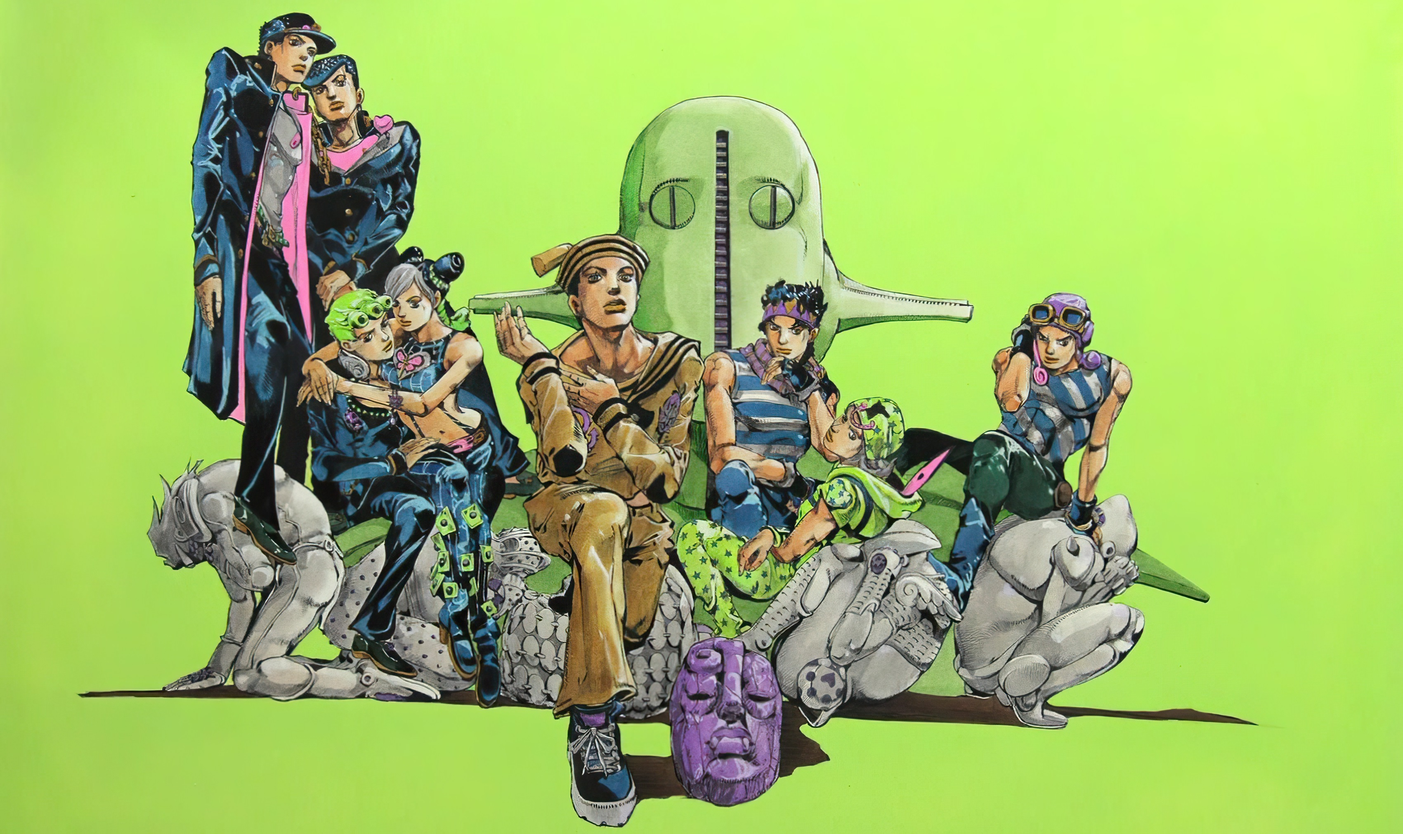
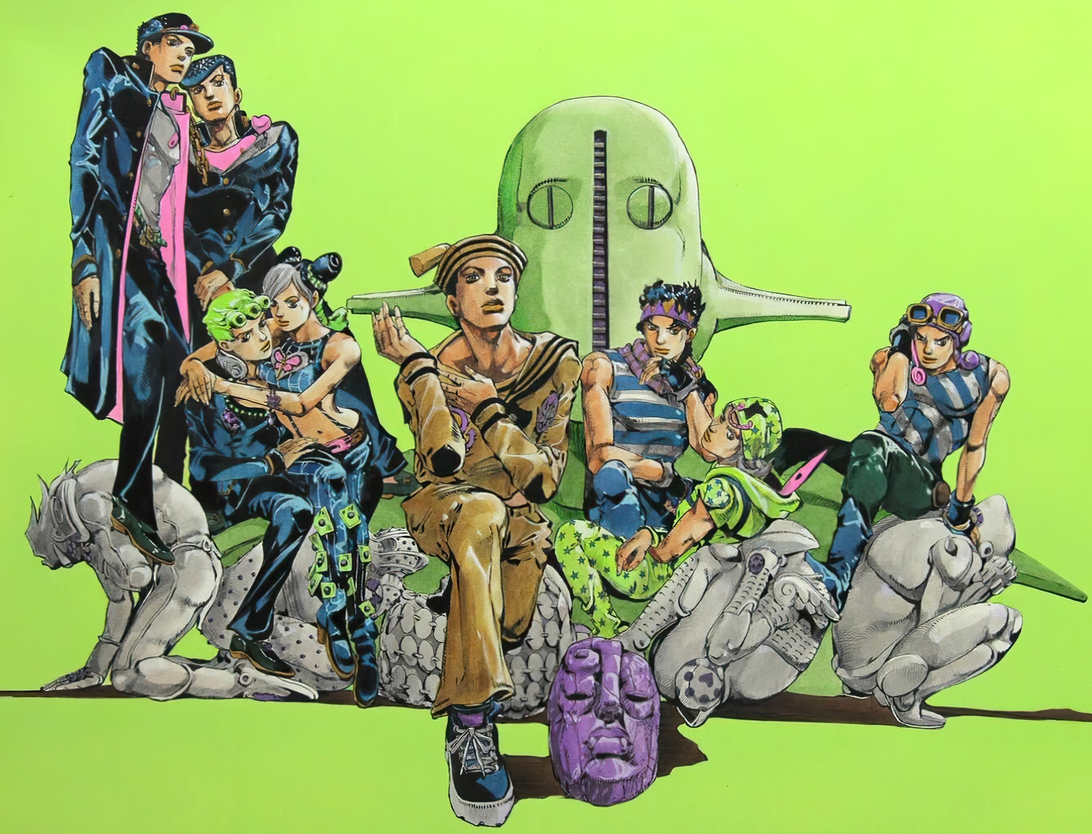
styled components

diff --git a/tetris/src/components/Tetris.tsx b/tetris/src/components/Tetris.tsx
@@ -1,6 +1,7 @@
 import React from "react";
 
 import { createStage } from "../gameHelpers";
+import { StyledTetrisWrapper, StyledTetris } from "./styles/StyledTetris";
 
 import Stage from "./Stage";
 import Display from "./Display";
@@ -10,17 +11,19 @@ import StartButton from "./StartButton";
 function Tetris()
 {
     return (
-        <div>
-            <Stage stage={createStage()}/>
-            <aside>
-                <div>
-                    <Display gameOver={true} text ="Score"/>
-                    <Display gameOver={true}text ="Rows"/>
-                    <Display gameOver={true}text ="Level"/>
-                </div>
-                <StartButton />
-            </aside>
-        </div>
+        <StyledTetrisWrapper>
+            <StyledTetris>
+                <Stage stage={createStage()}/>
+                <aside>
+                    <div>
+                        <Display gameOver={true} text ="Score"/>
+                        <Display gameOver={true}text ="Rows"/>
+                        <Display gameOver={true}text ="Level"/>
+                    </div>
+                    <StartButton />
+                </aside>
+            </StyledTetris>
+        </StyledTetrisWrapper>
     );
 };
 

diff --git a/tetris/src/components/styles/StyledTetris.tsx b/tetris/src/components/styles/StyledTetris.tsx
@@ -1,0 +1,26 @@
+import styled from "styled-components";
+import JOJO from '../../img/785352.jpg';
+
+export const StyledTetrisWrapper = styled.div`
+    width: 100vw;
+    height: 100vw;
+    background: url(${JOJO});
+    background-size: cover;
+    overflow: hidden;
+`
+
+export const StyledTetris = styled.div`
+    display:flex;
+    align-items: flex-start;
+    padding: 40px;
+    margin: 0 auto;
+    max-width: 900px;
+
+
+    aside{
+        width: 100%;
+        max-width: 200px;
+        display: block;
+        padding: 0 20px;
+    }
+`

diff --git a/tetris/src/components/styles/StyledCell.tsx b/tetris/src/components/styles/StyledCell.tsx
@@ -1,0 +1,15 @@
+import styled from "styled-components";
+type StyledCellProps = {
+    color:string,
+    type:any
+}
+
+export const StyledCell = styled.div<StyledCellProps>`
+    width:auto;
+    background: rgba(${props=>props.color}, 0.8);
+    border: ${props => (props.type === 0 ? '0px solid': '4px solid')};
+    border-bottom-color: rgba(${props=>props.color}, 0.1);
+    border-right-color: rgba(${props=>props.color}, 1);
+    border-top-color: rgba(${props=>props.color}, 1);
+    border-left-color: rgba(${props=>props.color}, 0.3);
+`

diff --git a/tetris/src/components/styles/StyledDisplay.tsx b/tetris/src/components/styles/StyledDisplay.tsx
@@ -1,0 +1,19 @@
+import styled from "styled-components";
+type StyledDisplayProps = {
+    gameOver:boolean
+}
+export const StyledDisplay = styled.div<StyledDisplayProps>`
+    box-sizing: border-box;
+    display: flex;
+    align-items: center;
+    margin: 0 0 20px 0;
+    padding: 20px;
+    border: 4px solid #333;
+    min-height: 30px;
+    width: 100%
+    border-radius: 20px;
+    color: ${props=> (props.gameOver? 'red':'#999')}
+    background: #000;
+    font-family: Pixel, Arial, Helvectica, sans-serif;
+    font-size: 0.8rem;
+`

diff --git a/tetris/src/index.css b/tetris/src/index.css
@@ -1,13 +1,8 @@
-body {
-  margin: 0;
-  font-family: -apple-system, BlinkMacSystemFont, 'Segoe UI', 'Roboto', 'Oxygen',
-    'Ubuntu', 'Cantarell', 'Fira Sans', 'Droid Sans', 'Helvetica Neue',
-    sans-serif;
-  -webkit-font-smoothing: antialiased;
-  -moz-osx-font-smoothing: grayscale;
+body{
+  margin:0;
+  overflow: hidden;
 }
-
-code {
-  font-family: source-code-pro, Menlo, Monaco, Consolas, 'Courier New',
-    monospace;
+@font-face {
+  font-family: 'Pixel';
+  src: url('font/Pixel-LCD-7.woff')format('woff');
 }

diff --git a/tetris/src/components/styles/StyledStage.tsx b/tetris/src/components/styles/StyledStage.tsx
@@ -1,0 +1,19 @@
+import styled from "styled-components";
+type StyledStageProps = {
+    width:any,
+    height:any
+}
+
+export const StyledStage = styled.div<StyledStageProps>`
+    display:grid;
+    grid-template-rows: repeat(
+        ${props=>props.height},
+        calc(25vw / ${props=>props.width})
+    );
+    grid-template-columns: repeat(${props=>props.width},1fr);
+    grid-gap: 1px;
+    border: 2px solid #333;
+    width: 100%;
+    max-width: 25vw;
+    background: #111;
+`

diff --git a/tetris/src/components/styles/StyledStartButton.tsx b/tetris/src/components/styles/StyledStartButton.tsx
@@ -1,0 +1,17 @@
+import styled from "styled-components";
+
+export const StyledStartButton = styled.button`
+    box-sixing: border-box;
+    margin: 0 0 20px 0;
+    padding: 20px;
+    min-height: 30px;
+    width: 100%;
+    border-radius: 20px;
+    border: none;
+    color: white;
+    background:#333;
+    font-family: Pixel, Arial, Helvectica, sans-serif;
+    font-size: 1rem;
+    outline: none;
+    cursor:pointer
+`

diff --git a/tetris/src/components/Stage.tsx b/tetris/src/components/Stage.tsx
@@ -1,11 +1,12 @@
 import React from "react";
 import Cell from "./Cell"
+import { StyledStage } from "./styles/StyledStage";
 
 function Stage({stage}:any){
     return(
-        <div>
+        <StyledStage width={stage[0].length} height={stage.length}>
             {stage.map((row:any)=>row.map((cell:any,x:number)=><Cell key={x} type={cell[0]}/>))}
-        </div>
+        </StyledStage>
     )
 
 }

diff --git a/tetris/src/components/Display.tsx b/tetris/src/components/Display.tsx
@@ -1,11 +1,12 @@
 import React from "react";
+import { StyledDisplay } from "./styles/StyledDisplay";
 interface Props {
     gameOver: boolean
     text:string
 }
 function Display({gameOver, text}:Props){
     return(
-        <div>{text}</div>
+        <StyledDisplay gameOver={gameOver}>{text}</StyledDisplay>
     )
 
 }

diff --git a/tetris/src/components/StartButton.tsx b/tetris/src/components/StartButton.tsx
@@ -1,7 +1,8 @@
 import React from "react";
+import { StyledStartButton } from "./styles/StyledStartButton";
 function StartButton({callBack}:any){
     return(
-        <div>Start Game</div>
+        <StyledStartButton onClick={callBack}>Start Game</StyledStartButton>
     )
 }
 export default StartButton

diff --git a/tetris/src/components/Cell.tsx b/tetris/src/components/Cell.tsx
@@ -1,7 +1,9 @@
 import React from "react";
+import { StyledCell } from "./styles/StyledCell";
+import { TETROMINOS } from "../tetrominos";
 function Cell({type}:any){
     return(
-        <div>cell</div>
+        <StyledCell type={type} color={TETROMINOS[type].color}/>
     )
 }
 export default Cell
